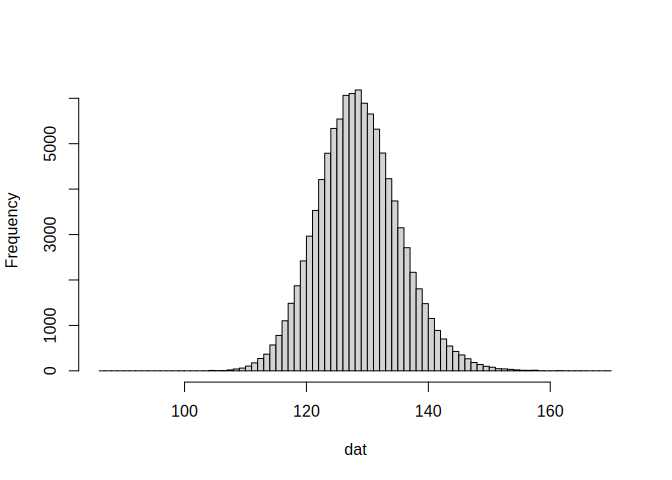
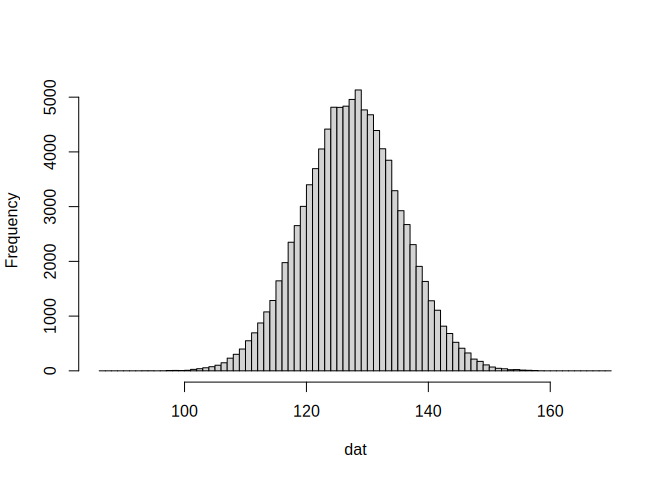
Add additional bit mixing to the hash algorithms used by ironseed.
Add binary tool for testing seed-sequence streams.

Bump version number

diff --git a/tools/ironseed-bin/ironseed-bin.c b/tools/ironseed-bin/ironseed-bin.c
@@ -1,0 +1,135 @@
+/*
+# MIT License
+#
+# Copyright (c) 2025 Reed A. Cartwright <racartwright@gmail.com>
+#
+# Permission is hereby granted, free of charge, to any person obtaining a copy
+# of this software and associated documentation files (the "Software"), to deal
+# in the Software without restriction, including without limitation the rights
+# to use, copy, modify, merge, publish, distribute, sublicense, and/or sell
+# copies of the Software, and to permit persons to whom the Software is
+# furnished to do so, subject to the following conditions:
+#
+# The above copyright notice and this permission notice shall be included in all
+# copies or substantial portions of the Software.
+#
+# THE SOFTWARE IS PROVIDED "AS IS", WITHOUT WARRANTY OF ANY KIND, EXPRESS OR
+# IMPLIED, INCLUDING BUT NOT LIMITED TO THE WARRANTIES OF MERCHANTABILITY,
+# FITNESS FOR A PARTICULAR PURPOSE AND NONINFRINGEMENT. IN NO EVENT SHALL THE
+# AUTHORS OR COPYRIGHT HOLDERS BE LIABLE FOR ANY CLAIM, DAMAGES OR OTHER
+# LIABILITY, WHETHER IN AN ACTION OF CONTRACT, TORT OR OTHERWISE, ARISING FROM,
+# OUT OF OR IN CONNECTION WITH THE SOFTWARE OR THE USE OR OTHER DEALINGS IN THE
+# SOFTWARE.
+
+Example Usage: ./ironseed-bin 1 | RNG_test stdin32 -tlmax 16GB
+./ironseed-bin $(od -vAn -N32 -t u4 < /dev/urandom) | RNG_test stdin32 -tlmax 16GB
+*/
+
+#include <assert.h>
+#include <stdlib.h>
+#include <stdint.h>
+#include <stdio.h>
+
+typedef struct ironseed_hash {
+  uint64_t coef;
+  uint64_t hashes[8];
+} ironseed_hash_t;
+
+typedef struct ironseed {
+  uint32_t seed[8];
+} ironseed_t;
+
+// Four random primes generated by Mathematica
+// NextPrime[RandomInteger[{0, 2^64-1}]]
+// IntegerString[%, 16]
+static const uint64_t PRIME_A = 0xc9f736a1a00d1f5f;
+static const uint64_t PRIME_B = 0x88226cde0de826bf;
+static const uint64_t PRIME_C = 0x278abb429678dd43;
+static const uint64_t PRIME_D = 0x7aa8bb10afef725b;
+
+// Multilinear hash (https://arxiv.org/pdf/1202.4961.pdf)
+// Hash is based on a sequence of 64-bit numbers generated by Weyl sequence
+// Multilinear hash is (m_0 + sum(m_i*u_i) mod 2^64) / 2^32
+// m = buffer of 64-bit unsigned random values
+// u = 32-bit input values that are being hashed
+
+static inline uint64_t init_hash4i_coef(void) { return PRIME_A; }
+
+static inline uint64_t hash4i_coef(uint64_t *m) { return *m += PRIME_B; }
+
+static inline uint64_t init_hash4o_coef(void) { return PRIME_C; }
+
+static inline uint64_t hash4o_coef(uint64_t *m) { return *m += PRIME_D; }
+
+static inline uint32_t finalmix(uint64_t u) {
+  // Final mixing adapted from splitmix64
+  u = (u ^ (u >> 30)) * 0xbf58476d1ce4e5b9;
+  u = (u ^ (u >> 27)) * 0x94d049bb133111eb;
+  return u >> 32;
+}
+
+// Initialize an ironseed_hash object. Stores the intermediate values of
+// 8 multilinear hashes as additional values are added to the hash.
+static void init_ironseed_hash(ironseed_hash_t *p) {
+  assert(p != NULL);
+  p->coef = init_hash4i_coef();
+  for(int i = 0; i < 8; ++i) {
+    p->hashes[i] = hash4i_coef(&p->coef);
+  }
+}
+
+// Update the intermediate state of each sub-hash.
+static void update_ironseed_hash(ironseed_hash_t *p, uint32_t value) {
+  assert(p != NULL);
+  for(int i = 0; i < 8; ++i) {
+    p->hashes[i] += hash4i_coef(&p->coef) * value;
+  }
+}
+
+static void create_ironseed(const ironseed_hash_t *p, ironseed_t *v) {
+  assert(p != NULL);
+  assert(v != NULL);
+
+  // If the last valued hashed was 0, then it did not affect the hash
+  // value. It did affect the coefficients. Append one extra value to
+  // the end before we generate the result of each hash.
+  uint64_t k = p->coef;
+  for(int i = 0; i < 8; ++i) {
+    uint64_t u = p->hashes[i] + hash4i_coef(&k);
+    v->seed[i] = finalmix(u);
+  }
+}
+
+static uint32_t create_seedseq(const ironseed_t *p, uint64_t *pm) {
+  assert(p != NULL);
+  assert(pm != NULL);
+
+  uint64_t u = hash4o_coef(pm);
+  
+  for(int j = 0; j < 8; ++j) {
+    u += hash4o_coef(pm) * p->seed[j];
+  }
+
+  return finalmix(u);
+}
+
+int main(int argc, char const *argv[]) {
+	ironseed_hash_t h;
+	ironseed_t fe;
+	init_ironseed_hash(&h);
+
+	for(int i = 1; i < argc; ++i) {
+		uint32_t v = (uint32_t)strtoul(argv[i], NULL, 0);
+		update_ironseed_hash(&h, v);
+	}
+	create_ironseed(&h, &fe);
+
+	uint64_t k = init_hash4o_coef();
+
+  for(;;) {
+    uint32_t v = create_seedseq(&fe, &k);
+    fwrite((void*) &v, sizeof(v), 1, stdout);
+  }
+
+	return EXIT_SUCCESS;
+}

diff --git a/src/ironseed.c b/src/ironseed.c
@@ -39,9 +39,15 @@ Multilinear hashes are also used to generate a seed sequence from an ironseed.
 Each 32-bit output value is generated by uniquely hashing the sub-hashes. The
 coefficients for the output are also generated by a second Weyl sequence.
 
+To improve the observed randomness of each hash output, bits are mixed using
+a finalizer adapted from SplitMix64 [4]. With the additional mixing from the
+finalizer, the output seed sequence passes PractRand tests [5].
+
 [1] https://www.pcg-random.org/posts/developing-a-seed_seq-alternative.html
 [2] https://gist.github.com/imneme/540829265469e673d045
 [3] https://arxiv.org/pdf/1202.4961.pdf
+[4] https://doi.org/10.1145/2714064.2660195
+[5] https://pracrand.sourceforge.net/
 */
 #define R_NO_REMAP
 
@@ -85,6 +91,13 @@ static inline uint64_t init_hash4o_coef(void) { return PRIME_C; }
 
 static inline uint64_t hash4o_coef(uint64_t *m) { return *m += PRIME_D; }
 
+static inline uint32_t finalmix(uint64_t u) {
+  // Final mixing adapted from splitmix64
+  u = (u ^ (u >> 30)) * 0xbf58476d1ce4e5b9;
+  u = (u ^ (u >> 27)) * 0x94d049bb133111eb;
+  return u >> 32;
+}
+
 // Initialize an ironseed_hash object. Stores the intermediate values of
 // 8 multilinear hashes as additional values are added to the hash.
 static void init_ironseed_hash(ironseed_hash_t *p) {
@@ -104,7 +117,7 @@ static void init_ironseed_hash(ironseed_hash_t *p) {
 #define htol32(x) byteswap32(x)
 #endif
 
-// Update the intermediate state of each sub-hashes.
+// Update the intermediate state of each sub-hash.
 static void update_ironseed_hash(ironseed_hash_t *p, uint32_t value) {
   assert(p != NULL);
   for(int i = 0; i < 8; ++i) {
@@ -141,8 +154,8 @@ static void update_ironseed_hash_v(
 
   size_t i = 0;
 
-  // Hash length since it may not be a multiple of 4.
-  update_ironseed_hash_ll(p, len);
+  // Hash lower 32-bits of length since it may not be a multiple of 4.
+  update_ironseed_hash(p, (uint32_t)len);
 
   // Exit early if length is 0.
   if(len == 0) {
@@ -178,7 +191,7 @@ static void create_ironseed(const ironseed_hash_t *p, ironseed_t *v) {
   uint64_t k = p->coef;
   for(int i = 0; i < 8; ++i) {
     uint64_t u = p->hashes[i] + hash4i_coef(&k);
-    v->seed[i] = (uint32_t)(u >> 32);
+    v->seed[i] = finalmix(u);
   }
 }
 
@@ -263,18 +276,18 @@ static void autofill_ironseed_hash(ironseed_hash_t *p) {
 }
 
 static void create_seedseq(
-  const ironseed_t *p, uint64_t *pm, unsigned int *u, size_t len
+  const ironseed_t *p, uint64_t *m, unsigned int *u, size_t len
 ) {
   assert(p != NULL);
   assert(u != NULL);
-  assert(pm != NULL);
+  assert(m != NULL);
 
   for(size_t i = 0; i < len; ++i) {
-    uint64_t h = hash4o_coef(pm);
+    uint64_t v = hash4o_coef(m);
     for(int j = 0; j < 8; ++j) {
-      h += hash4o_coef(pm) * p->seed[j];
+      v += hash4o_coef(m) * p->seed[j];
     }
-    u[i] = (uint32_t)(h >> 32);
+    u[i] = finalmix(v);
   }
 }
 

diff --git a/README.md b/README.md
@@ -36,6 +36,12 @@ from an ironseed. Each 32-bit output value is generated by uniquely
 hashing the sub-digests. The coefficients for the output are generated
 by a second Weyl sequence.
 
+To improve the observed randomness of each hash output, bits are mixed
+using a finalizer adapted from SplitMix64
+\[[5](https://doi.org/10.1145/2714064.2660195)\]. With the additional
+mixing from the finalizer, the output seed sequence passes PractRand
+tests \[[6](https://pracrand.sourceforge.net/)\].
+
 ## Installation
 
 ``` r
@@ -60,10 +66,10 @@ to reproduce the run.
 ``` r
 #!/usr/bin/env -S Rscript --vanilla
 ironseed::ironseed("Experiment", 20251031, 1)
-#> ** Ironseed : Seed RW7vjwjeiHF-QG7RYPvrntR-6tGPoi65sVc-N1n5SQi5RH4
+#> ** Ironseed : Seed RqJqS4g2aXV-nxfGU5xHWaF-2rX8iBiNWuR-jKj5DXzfWbE v0.1.0.9001
 runif(10)
-#>  [1] 0.03158887 0.36714050 0.23088033 0.33215967 0.69246113 0.98602135
-#>  [7] 0.44661582 0.75930377 0.77047433 0.90614352
+#>  [1] 0.27209988 0.05401526 0.51204877 0.94806819 0.96840822 0.53816970
+#>  [7] 0.37497052 0.42676681 0.18194411 0.26769675
 ```
 
 If your script is intended to be called multiple times as part of a
@@ -73,10 +79,10 @@ large study, you can also seed based on the command line arguments.
 #!/usr/bin/env -S Rscript --vanilla
 args <- commandArgs(trailingOnly = TRUE)
 ironseed::ironseed("A Simulation Script 1", args)
-#> ** Ironseed : Seed Q9LKmfC2bf1-iCjg8C9QLaJ-k7JXxb5n5Vb-vpr9FbTxJa9
+#> ** Ironseed : Seed CoKoWKuHqgD-yVtzDkJ4pCh-jAJn3zBpj1h-yFM1Cu3nbNK v0.1.0.9001
 runif(10)
-#>  [1] 0.16224205 0.24061448 0.04000381 0.50076538 0.95144747 0.23597125
-#>  [7] 0.39933299 0.51114333 0.51120232 0.98538637
+#>  [1] 0.11870746 0.78272032 0.68515287 0.40175965 0.49900522 0.37332730
+#>  [7] 0.82011979 0.03284861 0.48356992 0.90040306
 ```
 
 Specific command line arguments can also be used. For large, nested
@@ -87,10 +93,10 @@ seeds. Ironseed makes this easy to accomplish.
 #!/usr/bin/env -S Rscript --vanilla
 args <- commandArgs(trailingOnly = TRUE)
 ironseed::ironseed("A Simulation Script 2", args[grepl("--seed=", args)])
-#> ** Ironseed : Seed xLD31yrUbqH-CUCsxN8xAUd-VprMDvpDEHE-To1fdD6houZ
+#> ** Ironseed : Seed 16BWCcc5nZf-juvzXi5XCpS-5K7kRnicohf-xVNeKUA6MZF v0.1.0.9001
 runif(10)
-#>  [1] 0.8275151 0.5527449 0.8364873 0.4608138 0.9786886 0.9014904 0.5726790
-#>  [8] 0.6980262 0.3485765 0.3413197
+#>  [1] 0.5747996 0.3383344 0.7703499 0.9094458 0.3666125 0.2713542 0.8344397
+#>  [8] 0.6304827 0.6447120 0.9894029
 ```
 
 ### Automatic Seeding
@@ -102,16 +108,16 @@ occurs if no data is passed to `ironseed()`.
 ``` r
 #!/usr/bin/env -S Rscript --vanilla
 ironseed::ironseed()
-#> ** Ironseed : Seed dqxUP6MhxAW-JAh8pJoiZjH-EdFKndFkAJ5-baUmNcGyHgb
+#> ** Ironseed : Seed ZZ41wa2rBeM-Z3h6bgLrpz8-oJnrLDQpNLb-yjUPa7Tbh32 v0.1.0.9001
 runif(10)
-#>  [1] 0.5735454 0.9395409 0.1732484 0.6917507 0.8476523 0.3668362 0.6353248
-#>  [8] 0.2128797 0.7308257 0.5135310
+#>  [1] 0.51692160 0.83086269 0.42096813 0.95326117 0.68974016 0.55060962
+#>  [7] 0.12255819 0.07522713 0.77790200 0.89292403
 
 # Since RNG initializing has occurred, the next call will simply
 # return the ironseed used in previous seeding.
 fe <- ironseed::ironseed()
 fe
-#> Ironseed: dqxUP6MhxAW-JAh8pJoiZjH-EdFKndFkAJ5-baUmNcGyHgb
+#> Ironseed: ZZ41wa2rBeM-Z3h6bgLrpz8-oJnrLDQpNLb-yjUPa7Tbh32
 ```
 
 Or achieving the same thing with one call. Note that the automatically
@@ -120,12 +126,12 @@ generated seed is different from the previous run.
 ``` r
 #!/usr/bin/env -S Rscript --vanilla
 fe <- ironseed::ironseed()
-#> ** Ironseed : Seed bxwE1MUJnei-HbBGkestLRM-rRRV2PqgR1j-Y4fWmgEHzmM
+#> ** Ironseed : Seed o3oBspjYs84-vTkmYVwdd95-gYs2a7mqHDc-KuxJiazC7yX v0.1.0.9001
 runif(10)
-#>  [1] 0.43113563 0.37293063 0.02126794 0.22267259 0.45363405 0.53949902
-#>  [7] 0.29469384 0.03040180 0.28013271 0.22806716
+#>  [1] 0.9465604 0.4767022 0.9364781 0.2474247 0.0981720 0.5996615 0.6877794
+#>  [8] 0.2495181 0.9621318 0.9867489
 fe
-#> Ironseed: bxwE1MUJnei-HbBGkestLRM-rRRV2PqgR1j-Y4fWmgEHzmM
+#> Ironseed: o3oBspjYs84-vTkmYVwdd95-gYs2a7mqHDc-KuxJiazC7yX
 ```
 
 ### Reproducible Code
@@ -137,10 +143,10 @@ used, and the previously generated seed has been logged.
 ``` r
 #!/usr/bin/env -S Rscript --vanilla
 ironseed::ironseed("RW7vjwjeiHF-QG7RYPvrntR-6tGPoi65sVc-N1n5SQi5RH4")
-#> ** Ironseed : Seed RW7vjwjeiHF-QG7RYPvrntR-6tGPoi65sVc-N1n5SQi5RH4
+#> ** Ironseed : Seed RW7vjwjeiHF-QG7RYPvrntR-6tGPoi65sVc-N1n5SQi5RH4 v0.1.0.9001
 runif(10)
-#>  [1] 0.03158887 0.36714050 0.23088033 0.33215967 0.69246113 0.98602135
-#>  [7] 0.44661582 0.75930377 0.77047433 0.90614352
+#>  [1] 0.7912117 0.8591453 0.5992849 0.8067858 0.0786397 0.2018691 0.9127011
+#>  [8] 0.7985957 0.4259903 0.9625653
 ```
 
 ## Analysis
@@ -179,9 +185,9 @@ dat <- sapply(z, \(a) sum(intToBits(a$x) != intToBits(a$y)))
 
 ``` r
 mean(dat) # expectation: 128
-#> [1] 129.0988
+#> [1] 127.9792
 sd(dat) # expectation: 8
-#> [1] 6.73154
+#> [1] 7.998941
 hist(dat, breaks = 86:170, main = NULL)
 ```
 
@@ -194,12 +200,12 @@ set.seed(20251221)
 z <- replicate(100000, rand_fe_pair(256), simplify = FALSE)
 dat <- sapply(z, \(a) sum(intToBits(a$x) != intToBits(a$y)))
 mean(dat) # expectation: 128
-#> [1] 128.1829
+#> [1] 127.9896
 sd(dat) # expectation: 8
-#> [1] 8.308218
+#> [1] 8.016092
 hist(dat, breaks = 86:170, main = NULL)
 ```
 
 <img src="man/figures/README-analysis_256-1.png" width="100%" />
 
-As one can see, the avalanche behavior of the input hash is pretty good.
+As one can see, the avalanche behavior of the input hash is excellent.

diff --git a/NEWS.md b/NEWS.md
@@ -1,5 +1,9 @@
 ## ironseed (development)
 
+* [Breaking] Avalanche behavior and observed randomness were improved by
+  including additional bit mixing at the end of hashing. This changes the
+  calculation of all ironseeds and seed streams, but allows the algorithms to
+  pass PractRand tests.
 * [Breaking] When hashing a string, include the length of the string in the hash
   to avoid input collision. This will change any inputs -> ironseed that use
   strings or raws. ironseed -> outputs is unaffected.
